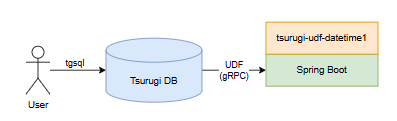
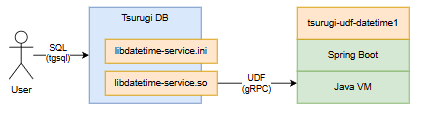
update blog.

diff --git a/doc/blog.md b/doc/blog.md
@@ -4,11 +4,35 @@
 
 ## 背景
 
+### UDFとは
+
 一般に SQL の UDF は、標準の SQL 関数では対応できない計算やロジックを、ユーザーが独自に定義し SQL 文の中で再利用するための機能です。スカラー値やテーブル関数として定義でき、データクレンジングやビジネスロジックの共通化に役立ちます。
 
-Tsurugi 1.8.0 では、複数の値を返せないなどの制約はあるものの UDF が利用可能になりました。プロトコルは gRPC で、サーバ側を実装するだけで SQL から呼び出せます。そこで、DATE / TIME / TIMESTAMP / TIMESTAMP WITH TIME ZONE から「年」「月」「曜日」「週番号」「時」「分」「秒」「ミリ秒」などを取り出す関数群を、Spring Boot アプリとして gRPC サーバ化しました。
+### PostgreSQL の UDF
+
+例えば PostgreSQL の UDF を作成する場合、C で書いたコードを実行環境に合わせて共有ライブラリ（.so）にビルドし、`CREATE FUNCTION` で登録するとサーバがオンデマンドで動的ロードする形で利用します。同じプロセス内で動作するため、PostgreSQL の挙動に影響しないようメモリ管理（palloc/pfree）やスレッド安全性に配慮する必要があり、実装の難易度は高くなります。
+
+### Tsurugi の UDF
+
+Tsurugi 1.8.0 で利用可能になった UDF は、複数の値を返せないなどの制約はあるものの実行プロセスを gRPC で分離することで、従来の UDF の困難さを回避する設計になっています。SQL から呼び出す関数を gRPC で定義すれば、Tsurugi 側の呼び出し処理を組み込んだ共有ライブラリを自動生成できます。
+
+開発者は定義通りに gRPC サーバ側を実装するだけで、Tsurugi からの安全な UDF 呼び出しを実現できます。
+
+### Tsurugi UDF の作例
+
+今回の作例では、Tsurugi 1.8.0 時点では提供されていない DATE / TIME / TIMESTAMP / TIMESTAMP WITH TIME ZONE のコンポーネント（年・月・曜日・週番号・時・分・秒・ミリ秒など）を取り出す関数群を、Spring Boot アプリとして gRPC サーバ化しました。
 
 ## 開発手順
+
+### 全体の流れ
+
+1. 要件を策定
+2. gRPC定義(proto ファイル)を作成
+3. proto ファイルを元に gRPC サーバを Spring boot で実装
+4. 実装した gRPC サーバを起動
+5. Tsurugi 側共有ライブラリを proto ファイルから生成
+6. Tsurugi に共有ライブラリを組み込んで起動
+7. UDF を呼び出す SQL を実行して動作確認
 
 ### 要件と設計
 
@@ -18,13 +42,112 @@ Tsurugi 1.8.0 では、複数の値を返せないなどの制約はあるもの
 - **Tsurugi UDF の制約**: 各 RPC のレスポンスは「1 フィールドのみの message」にすること。`optional` が使えないため、タイムゾーン省略版と指定版は別名の RPC（例: `TimestampYear` と `TimestampYearTz`）で分ける。
 - **型**: 日付・時刻型は Tsurugi 公式の [tsurugi_types.proto](https://github.com/project-tsurugi/tsurugi-udf/blob/master/proto/tsurugidb/udf/tsurugi_types.proto) を import して利用する（`Date`, `LocalTime`, `LocalDatetime`, `OffsetDatetime` など）。
 
-.proto では、TIMESTAMP（デフォルト TZ）用・TIMESTAMP（タイムゾーン指定）用・TIMESTAMP WITH TIME ZONE 用・DATE 用・TIME 用の 5 系統に分け、合計 37 個の RPC を定義しました。戻り値は `Int32Value` または `Int64Value`（EPOCH ミリ秒用）でラップします。
+本プロジェクトの .proto では、TIMESTAMP（デフォルト TZ）用・TIMESTAMP（タイムゾーン指定）用・TIMESTAMP WITH TIME ZONE 用・DATE 用・TIME 用の 5 系統に分け、合計 37 個の RPC を定義しています。戻り値は `Int32Value` または `Int64Value`（EPOCH ミリ秒用）でラップします。
+
+```proto
+syntax = "proto3";
+
+import "tsurugidb/udf/tsurugi_types.proto";
+
+option java_package = "jp.septigram.tsurugi.udf.datetime1";
+
+// Tsurugi UDF 日時コンポーネント取得サービス
+service DateTimeService {
+  // TIMESTAMP (LocalDatetime) - システムデフォルトタイムゾーン
+  rpc TimestampYear (TimestampRequest) returns (Int32Value) {}
+  rpc TimestampMonth (TimestampRequest) returns (Int32Value) {}
+  rpc TimestampDay (TimestampRequest) returns (Int32Value) {}
+  rpc TimestampDayOfWeek (TimestampRequest) returns (Int32Value) {}
+  rpc TimestampWeekOfYear (TimestampRequest) returns (Int32Value) {}
+  rpc TimestampHour (TimestampRequest) returns (Int32Value) {}
+  rpc TimestampMinute (TimestampRequest) returns (Int32Value) {}
+  rpc TimestampSecond (TimestampRequest) returns (Int32Value) {}
+  rpc TimestampMillisecond (TimestampRequest) returns (Int32Value) {}
+  rpc TimestampEpochMilli (TimestampRequest) returns (Int64Value) {}
+
+  // TIMESTAMP (LocalDatetime) - タイムゾーン指定
+  rpc TimestampYearTz (TimestampWithTzRequest) returns (Int32Value) {}
+  rpc TimestampMonthTz (TimestampWithTzRequest) returns (Int32Value) {}
+  rpc TimestampDayTz (TimestampWithTzRequest) returns (Int32Value) {}
+  rpc TimestampDayOfWeekTz (TimestampWithTzRequest) returns (Int32Value) {}
+  rpc TimestampWeekOfYearTz (TimestampWithTzRequest) returns (Int32Value) {}
+  rpc TimestampHourTz (TimestampWithTzRequest) returns (Int32Value) {}
+  rpc TimestampMinuteTz (TimestampWithTzRequest) returns (Int32Value) {}
+  rpc TimestampSecondTz (TimestampWithTzRequest) returns (Int32Value) {}
+  rpc TimestampMillisecondTz (TimestampWithTzRequest) returns (Int32Value) {}
+  rpc TimestampEpochMilliTz (TimestampWithTzRequest) returns (Int64Value) {}
+
+  // TIMESTAMP WITH TIME ZONE (OffsetDatetime)
+  rpc OffsetTimestampYear (OffsetTimestampRequest) returns (Int32Value) {}
+  rpc OffsetTimestampMonth (OffsetTimestampRequest) returns (Int32Value) {}
+  rpc OffsetTimestampDay (OffsetTimestampRequest) returns (Int32Value) {}
+  rpc OffsetTimestampDayOfWeek (OffsetTimestampRequest) returns (Int32Value) {}
+  rpc OffsetTimestampWeekOfYear (OffsetTimestampRequest) returns (Int32Value) {}
+  rpc OffsetTimestampHour (OffsetTimestampRequest) returns (Int32Value) {}
+  rpc OffsetTimestampMinute (OffsetTimestampRequest) returns (Int32Value) {}
+  rpc OffsetTimestampSecond (OffsetTimestampRequest) returns (Int32Value) {}
+  rpc OffsetTimestampMillisecond (OffsetTimestampRequest) returns (Int32Value) {}
+  rpc OffsetTimestampEpochMilli (OffsetTimestampRequest) returns (Int64Value) {}
+
+  // DATE (Date)
+  rpc DateYear (DateRequest) returns (Int32Value) {}
+  rpc DateMonth (DateRequest) returns (Int32Value) {}
+  rpc DateDay (DateRequest) returns (Int32Value) {}
+  rpc DateDayOfWeek (DateRequest) returns (Int32Value) {}
+  rpc DateWeekOfYear (DateRequest) returns (Int32Value) {}
+
+  // TIME (LocalTime)
+  rpc TimeHour (TimeRequest) returns (Int32Value) {}
+  rpc TimeMinute (TimeRequest) returns (Int32Value) {}
+  rpc TimeSecond (TimeRequest) returns (Int32Value) {}
+  rpc TimeMillisecond (TimeRequest) returns (Int32Value) {}
+}
+
+// 共通レスポンス型
+message Int32Value {
+  int32 value = 1;
+}
+message Int64Value {
+  int64 value = 1;
+}
+
+// リクエスト型
+message TimestampRequest {
+  tsurugidb.udf.LocalDatetime value = 1;
+}
+
+message TimestampWithTzRequest {
+  tsurugidb.udf.LocalDatetime value = 1;
+  string time_zone = 2;
+}
+
+message OffsetTimestampRequest {
+  tsurugidb.udf.OffsetDatetime value = 1;
+}
+
+message DateRequest {
+  tsurugidb.udf.Date value = 1;
+}
+
+message TimeRequest {
+  tsurugidb.udf.LocalTime value = 1;
+}
+
+```
+
 
 ### 構成
 
 構成は非常にシンプルです。
 
-![構成図](https://github.com/septigram/tsurugi-udf-datetime1/blob/main/doc/tsurugi-udf-datetime1.png?raw=true)
+![構成図](https://qiita-image-store.s3.ap-northeast-1.amazonaws.com/0/542190/15e04b18-33c3-4c4d-837d-ee1a4f9c00b5.png)
+
+モジュール|説明
+-|-
+Tsurugi DB|データベース
+libdatetime-service.ini|UDF設定ファイル
+libdatetime-service.so|UDF共有ライブラリ
+tsurugi-udf-datetime1|UDFサーバ
 
 ### 実装
 
@@ -32,19 +155,19 @@ Tsurugi 1.8.0 では、複数の値を返せないなどの制約はあるもの
 - **プロジェクト構成**:
   - **config**: gRPC サーバのポート（デフォルト 50051）と Netty の起動・シャットダウン。
   - **converter**: `tsurugidb.udf.*` のメッセージと Java の `LocalDate` / `LocalTime` / `LocalDateTime` / `ZonedDateTime` / `OffsetDateTime` / `Instant` の相互変換。Tsurugi の `Date`（epoch からの日数）、`LocalTime`（ナノ秒）、`LocalDatetime`（offset_seconds + nano_adjustment）、`OffsetDatetime`（UTC 秒 + オフセット分）の仕様に合わせて変換する。
-  - **service**: 生成された gRPC の Service 基底クラスを継承し、各 RPC で converter を使ってコンポーネントを取得し、`Int32Value` / `Int64Value` で返す。不正なタイムゾーン ID などは gRPC の `Status.INVALID_ARGUMENT` で返却。
+  - **service**: 生成された gRPC の Service 基底クラスを継承し、各 RPC で converter を使ってコンポーネントを取得し、`Int32Value` / `Int64Value` で返す。不正なタイムゾーン ID などは gRPC の `Status.INVALID_ARGUMENT` でエラーとして返却します。
 
 ビルドは `./gradlew clean build`、起動は `./gradlew bootRun` または `java -jar build/libs/tsurugi-udf-datetime1-*.jar` で行います。
 
 ### UDF プラグインとの連携
 
-Tsurugi 側で UDF を利用するには、本プロジェクトの .proto と `tsurugi_types.proto` を指定して `udf-plugin-builder` でプラグイン（`lib*.so` と `lib*.ini`）を生成します。`lib*.ini` の `endpoint` を、本アプリの gRPC アドレス（例: `dns:///localhost:50051`）に合わせ、生成したプラグインを Tsurugi のプラグイン配置ディレクトリに置いて Tsurugi を起動すると、SQL から UDF を呼び出せます。Tsurugi の「tsurugidb.udf 利用時は 1 本にまとめてデプロイする」という制約に従い、本サービス用の .proto と `tsurugi_types.proto` をまとめてプラグイン化します。
+Tsurugi 側で UDF を利用するには、本プロジェクトの .proto と `tsurugi_types.proto` を指定して `udf-plugin-builder` でプラグイン（`lib*.so` と `lib*.ini`）を生成します。`lib*.ini` の `endpoint` を本アプリの gRPC アドレス（例: `dns:///localhost:50051`）に合わせ、生成したプラグインを Tsurugi のプラグイン配置ディレクトリに置いて Tsurugi を起動すると、SQL から UDF を呼び出せます。Tsurugi の「tsurugidb.udf 利用時は 1 本にまとめてデプロイする」という制約に従い、本アプリ用の .proto と `tsurugi_types.proto` をまとめてプラグイン化します。
 
 ```bash
 $ udf-plugin-builder --proto-file datetime-service.proto tsurugidb/udf/tsurugi_types.proto
 ```
 
-udf-plugin-builderについては[公式のドキュメント](https://github.com/project-tsurugi/tsurugi-udf/blob/master/docs/udf-plugin_ja.md)を参考にしてください。
+udf-plugin-builder の詳細は [公式ドキュメント](https://github.com/project-tsurugi/tsurugi-udf/blob/master/docs/udf-plugin_ja.md) を参照してください。
 
 ### 結合テスト
 
@@ -123,4 +246,6 @@ Time: 1.888 ms
 
 Tsurugi の UDF は gRPC サーバを用意するだけで SQL から呼び出せるため、Spring Boot と gRPC で日付・時刻のコンポーネント取得関数を実装しました。.proto で Tsurugi の制約（レスポンス 1 フィールド、optional 非対応）に合わせ、`tsurugi_types.proto` の型を利用することで、Tsurugi と整合した UDF サーバを比較的少ない手間で構築できました。同様の手順で、他のドメインの UDF も追加しやすい構成になっています。
 
-実は週番号でGROUP BYしたくて開発したのですが、Tsurugi v1.8.0の時点ではユーザー定義集計関数（UDAF）に未対応ということで使えませんでした。開発計画はあるようなので、実装を待ちたいと思います。
+当初は週番号で `GROUP BY` したくて開発しましたが、Tsurugi v1.8.0 時点ではユーザー定義集計関数（UDAF）に未対応のため利用できませんでした。開発計画はあるようなので、実装を待ちたいと思います。
+
+現在の UDF 呼び出しには、同じ筐体内のループバック接続でも1リクエストに4～6ミリ秒程度かかるので大量操作には向いていません。それでも現状機能に制約の多い Tsurugi を利用する上では強力なツールです。引き続き作例を重ねていきます。
